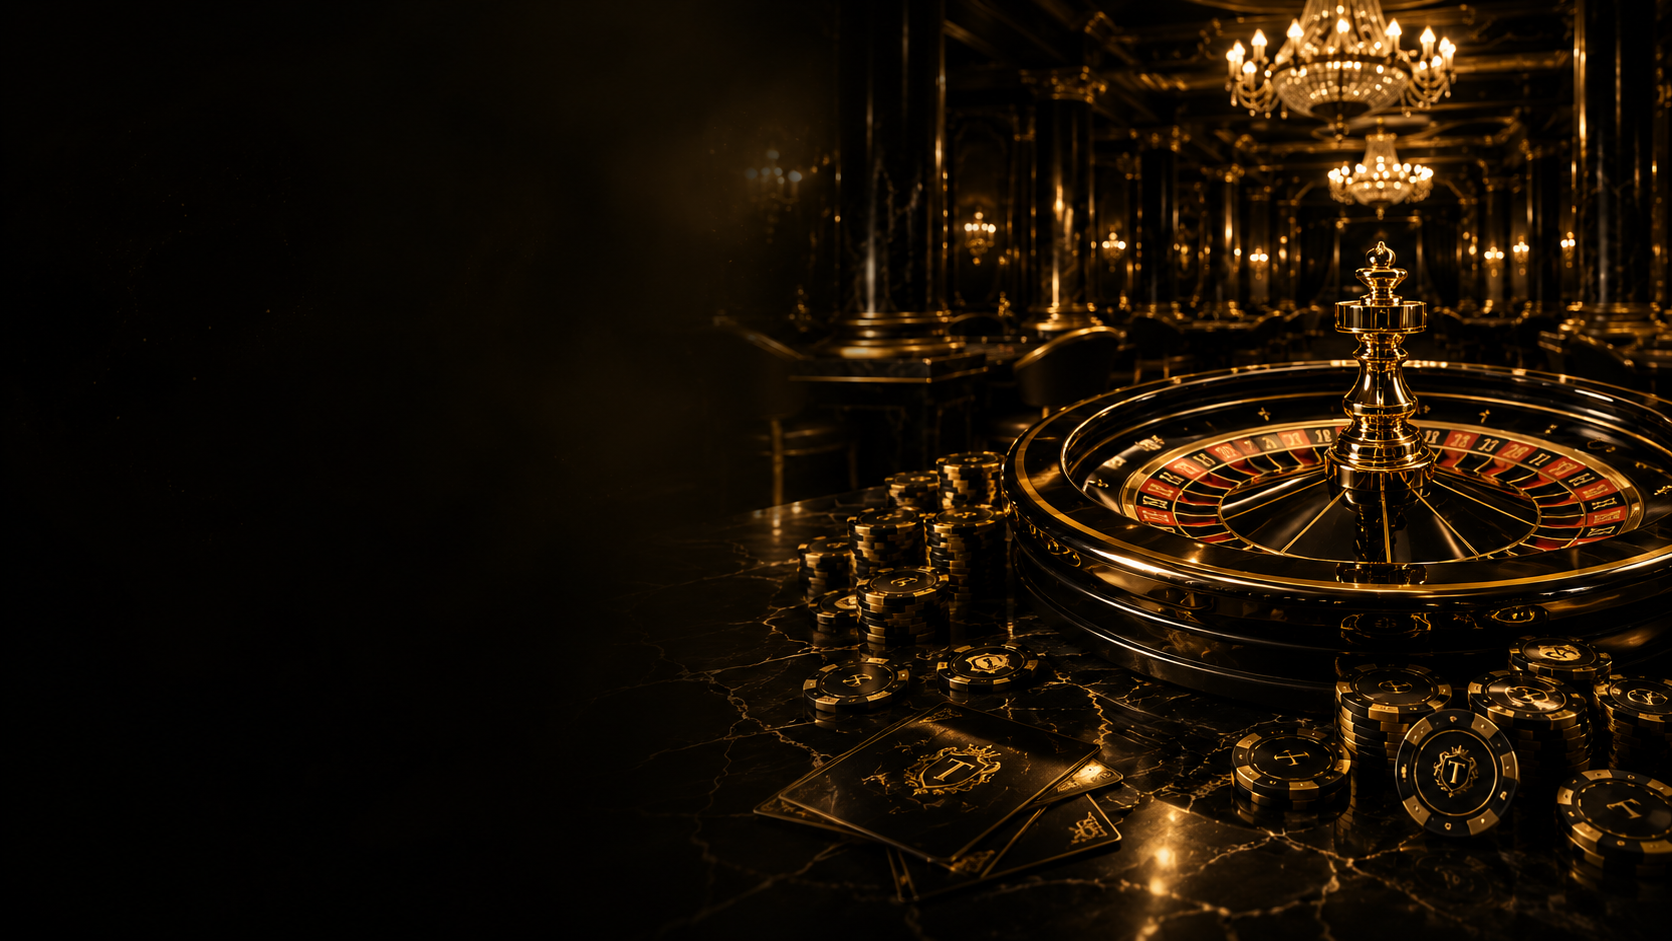
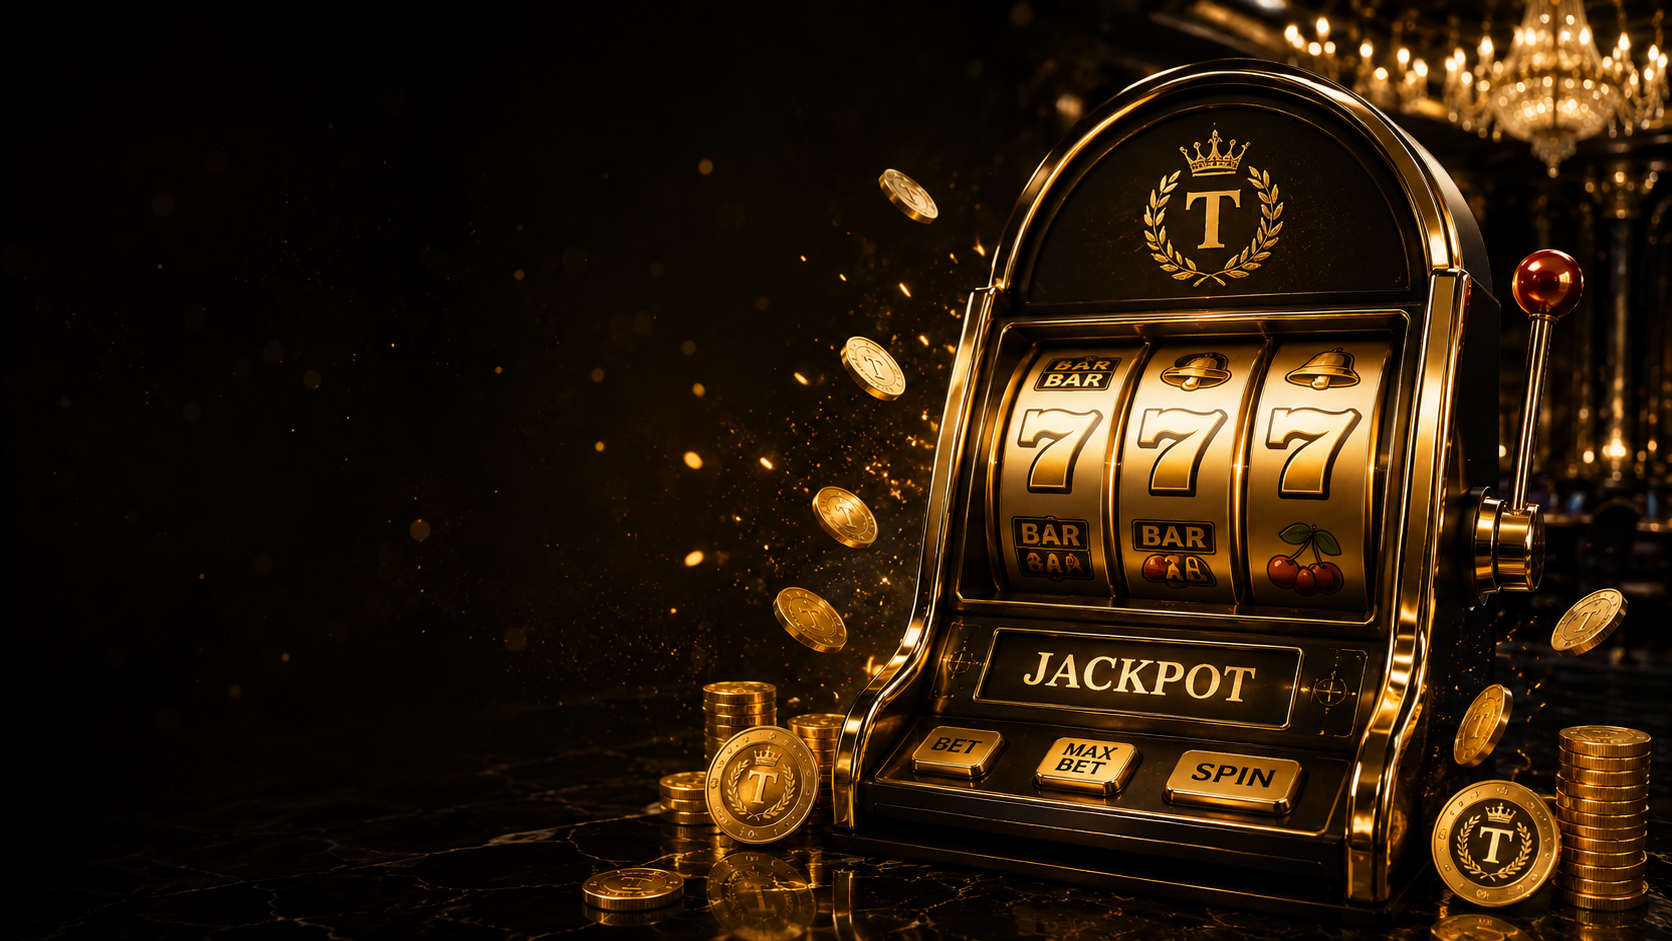
game play page (/casino/play/:slug): breadcrumb, royal frame with controls + iframe slot, Real/Demo toggle, popular row; lobby cards gold frames; Home in nav

diff --git a/src/views/GamePlayView.vue b/src/views/GamePlayView.vue
@@ -1,0 +1,190 @@
+<script setup lang="ts">
+import { computed, ref, watch } from 'vue'
+import { useRoute, useRouter } from 'vue-router'
+import AppIcon from '@/components/ui/AppIcon.vue'
+import FontIcon from '@/components/ui/FontIcon.vue'
+import GoldButton from '@/components/ui/GoldButton.vue'
+import { findGame, lobbyGames, gameSlug } from '@/data/casinoGames'
+
+const route = useRoute()
+const router = useRouter()
+
+const game = computed(() => findGame(String(route.params.slug)) ?? lobbyGames[0])
+const playing = ref(false)
+const mode = ref<'real' | 'demo'>('real')
+const fav = ref(false)
+
+// Switching to another game resets the session state.
+watch(() => route.params.slug, () => {
+  playing.value = false
+  fav.value = false
+})
+
+const popular = computed(() =>
+  lobbyGames.filter((g) => g !== game.value).slice(0, 6),
+)
+
+const controls = [
+  { icon: 'star', label: 'Favorite', act: () => (fav.value = !fav.value) },
+  { icon: 'refresh', label: 'Reload', act: () => (playing.value = false) },
+  { icon: 'vault', label: 'Lobby', act: () => router.push('/casino') },
+  { icon: 'x', label: 'Close', act: () => router.push('/casino') },
+]
+</script>
+
+<template>
+  <main class="pb-4">
+    <div class="container-royal pt-6">
+      <!-- Breadcrumb -->
+      <nav class="flex items-center gap-2 font-sans text-[12px] uppercase tracking-[0.12em]" aria-label="Breadcrumb">
+        <RouterLink to="/" class="text-ink-dim transition-colors hover:text-gold-bright">Home</RouterLink>
+        <span class="text-gold/50">/</span>
+        <RouterLink to="/casino" class="text-ink-dim transition-colors hover:text-gold-bright">Casino</RouterLink>
+        <span class="text-gold/50">/</span>
+        <span class="text-champagne">{{ game.name }}</span>
+      </nav>
+
+      <!-- Game frame -->
+      <div class="card-lux mt-5 overflow-hidden p-0 hover:translate-y-0">
+        <div class="relative aspect-video max-h-[680px] w-full overflow-hidden">
+          <!-- Blurred art backdrop -->
+          <div
+            class="absolute inset-0 scale-110 bg-cover bg-center blur-2xl"
+            :style="{ backgroundImage: `url('${game.image}')` }"
+          />
+          <div class="absolute inset-0" style="background: radial-gradient(70% 70% at 50% 45%, rgba(5,5,5,0.55), rgba(5,5,5,0.92))" />
+
+          <!-- Frame controls -->
+          <div class="absolute right-4 top-4 z-20 flex gap-2">
+            <button
+              v-for="c in controls"
+              :key="c.label"
+              :aria-label="c.label"
+              class="grid h-10 w-10 place-items-center rounded-full border border-border-gold/60 bg-black/60 backdrop-blur transition-all duration-300 hover:border-gold hover:text-gold-bright"
+              :class="c.icon === 'star' && fav ? 'text-gold-bright' : 'text-champagne'"
+              @click="c.act"
+            >
+              <FontIcon v-if="c.icon === 'refresh'" name="refresh" class="text-[15px]" />
+              <AppIcon v-else :name="c.icon" :size="16" />
+            </button>
+          </div>
+
+          <!-- Live provider game -->
+          <iframe
+            v-if="playing && game.src"
+            :src="game.src"
+            class="absolute inset-0 h-full w-full border-0"
+            :title="game.name"
+            allow="fullscreen; autoplay"
+          />
+
+          <!-- Pre-launch / placeholder session -->
+          <div v-else class="absolute inset-0 z-10 flex flex-col items-center justify-center gap-6 px-6 text-center">
+            <template v-if="!playing">
+              <img :src="game.image" :alt="game.name" class="h-28 w-28 rounded-xl border border-border-gold object-cover shadow-gold-soft" />
+              <h1 class="font-display text-3xl font-bold tracking-[0.1em] text-gold-gradient sm:text-4xl">
+                {{ game.name }}
+              </h1>
+              <!-- Royal launch button -->
+              <button
+                class="group relative grid h-20 w-20 place-items-center rounded-full bg-gold-gradient text-[#1a1407] shadow-gold transition-transform duration-300 hover:scale-105 active:scale-95"
+                aria-label="Launch game"
+                @click="playing = true"
+              >
+                <span class="absolute -inset-2 animate-ringRotate rounded-full border border-dashed border-gold/40" />
+                <AppIcon name="play" :size="30" />
+              </button>
+              <p class="font-sans text-[11px] uppercase tracking-[0.3em] text-ink-dim">
+                {{ mode === 'real' ? 'Enter the table' : 'Practice round' }}
+              </p>
+            </template>
+
+            <!-- Launched but no provider URL configured yet -->
+            <template v-else>
+              <div class="relative flex h-20 w-20 items-center justify-center">
+                <svg class="absolute inset-0 h-full w-full animate-ringRotate" style="animation-duration: 2.4s" viewBox="0 0 100 100" fill="none">
+                  <circle cx="50" cy="50" r="45" stroke="rgba(212,175,55,0.18)" stroke-width="2.5" />
+                  <circle cx="50" cy="50" r="45" stroke="#F5D77A" stroke-width="2.5" stroke-linecap="round" stroke-dasharray="70 213" />
+                </svg>
+                <img src="/assets/images/crown-duke.png" alt="" class="h-8 w-auto" />
+              </div>
+              <p class="font-display text-lg font-semibold tracking-[0.16em] text-gold-gradient">
+                Summoning the reels
+              </p>
+              <p class="max-w-sm font-sans text-[12px] leading-relaxed text-ink-dim">
+                The game session is served by the provider once its launch URL is configured — the THRONE frame, controls and balance shell wrap around it.
+              </p>
+            </template>
+          </div>
+        </div>
+
+        <!-- Info bar -->
+        <div class="flex flex-col gap-4 border-t border-white/5 bg-card/80 px-6 py-4 sm:flex-row sm:items-center sm:justify-between">
+          <div>
+            <p class="font-display text-base font-semibold tracking-[0.1em] text-champagne">{{ game.name }}</p>
+            <p class="mt-0.5 flex items-center gap-1.5 font-sans text-[11px] text-ink-dim">
+              <span class="h-1 w-1 rounded-full bg-gold/70" /> {{ game.provider }} · RTP {{ game.rtp }}%
+            </p>
+          </div>
+          <div class="flex items-center gap-1 rounded-full border border-white/10 bg-black/40 p-1">
+            <button
+              v-for="m in (['real', 'demo'] as const)"
+              :key="m"
+              class="rounded-full px-5 py-1.5 font-sans text-[10px] font-semibold uppercase tracking-[0.14em] transition-all duration-300"
+              :class="mode === m ? 'bg-gold-gradient text-[#1a1407] shadow-gold-soft' : 'text-ink-muted hover:text-gold-bright'"
+              @click="mode = m"
+            >
+              {{ m === 'real' ? 'Real Play' : 'Demo' }}
+            </button>
+          </div>
+        </div>
+      </div>
+
+      <!-- Popular casino games -->
+      <div class="mt-12">
+        <div class="mb-6 flex items-center justify-between">
+          <div class="flex items-center gap-3">
+            <span class="h-6 w-1 rounded-full bg-gold-gradient shadow-gold-soft" />
+            <h2 class="font-display text-lg font-semibold tracking-[0.16em] text-gold-gradient">
+              Popular Casino Games
+            </h2>
+          </div>
+          <RouterLink to="/casino">
+            <GoldButton variant="ghost" size="sm">See All <AppIcon name="arrowRight" :size="13" /></GoldButton>
+          </RouterLink>
+        </div>
+
+        <div class="grid grid-cols-2 gap-4 sm:grid-cols-3 xl:grid-cols-6">
+          <RouterLink
+            v-for="g in popular"
+            :key="g.name"
+            :to="`/casino/play/${gameSlug(g)}`"
+            class="group overflow-hidden rounded-xl border border-border-gold/70 bg-card transition-all duration-300 hover:-translate-y-1 hover:border-gold hover:shadow-card-lift"
+          >
+            <div class="relative aspect-square overflow-hidden">
+              <img :src="g.image" :alt="g.name" loading="lazy" decoding="async" class="h-full w-full object-cover transition-transform duration-500 group-hover:scale-110" />
+              <span
+                v-if="g.hot"
+                class="absolute left-2 top-2 flex items-center gap-1 rounded bg-gold-gradient px-2 py-0.5 font-sans text-[9px] font-bold uppercase tracking-[0.14em] text-[#1a1407]"
+              >
+                <AppIcon name="crown" :size="10" /> Hot
+              </span>
+              <span
+                v-else-if="g.isNew"
+                class="absolute left-2 top-2 rounded border border-gold/60 bg-black/60 px-2 py-0.5 font-sans text-[9px] font-bold uppercase tracking-[0.14em] text-gold-bright backdrop-blur"
+              >
+                New
+              </span>
+            </div>
+            <div class="px-3 py-3">
+              <p class="truncate font-sans text-[12px] font-semibold text-ink transition-colors group-hover:text-gold-bright">{{ g.name }}</p>
+              <p class="mt-0.5 flex items-center gap-1.5 font-sans text-[10px] text-ink-dim">
+                <span class="h-1 w-1 rounded-full bg-gold/70" /> {{ g.provider }}
+              </p>
+            </div>
+          </RouterLink>
+        </div>
+      </div>
+    </div>
+  </main>
+</template>

diff --git a/src/data/casinoGames.ts b/src/data/casinoGames.ts
@@ -6,27 +6,37 @@ export interface LobbyGame {
   image: string
   hot?: boolean
   isNew?: boolean
+  rtp?: string
+  /** Provider game-launch URL — when set, the play page embeds it */
+  src?: string
 }
 
 const img = (slug: string) => `/assets/images/games/${slug}.webp`
 
+/** URL slug for the play route, derived from the thumbnail filename. */
+export const gameSlug = (g: LobbyGame) =>
+  g.image.split('/').pop()!.replace('.webp', '')
+
+export const findGame = (slug: string) =>
+  lobbyGames.find((g) => gameSlug(g) === slug)
+
 export const lobbyGames: LobbyGame[] = [
-  { name: 'Gates of Olympus', provider: 'Pragmatic Play', image: img('gates-of-olympus'), hot: true },
-  { name: 'Sugar Rush', provider: 'Pragmatic Play', image: img('sugar-rush') },
-  { name: 'Starlight Princess', provider: 'Pragmatic Play', image: img('starlight-princess') },
-  { name: 'Zeus vs Hades', provider: 'Pragmatic Play', image: img('zeus-vs-hades'), hot: true },
-  { name: 'Bounty Gold', provider: 'Pragmatic Play', image: img('bounty-gold') },
-  { name: 'Release the Kraken', provider: 'Pragmatic Play', image: img('release-the-kraken'), isNew: true },
-  { name: 'Candy Blitz', provider: 'Pragmatic Play', image: img('candy-blitz') },
-  { name: 'Fruit Rainbow', provider: 'Pragmatic Play', image: img('fruit-rainbow') },
-  { name: 'Pyramid Treasure', provider: 'Platin Gaming', image: img('pyramid-treasure') },
-  { name: 'Octobeer Fortunes', provider: 'Platin Gaming', image: img('octobeer'), isNew: true },
-  { name: 'Fishin Reels', provider: 'Pragmatic Play', image: img('fishin-reels') },
-  { name: 'The Wild Gang', provider: 'Pragmatic Play', image: img('the-wild-gang') },
-  { name: 'Great Stick-Up', provider: 'Pragmatic Play', image: img('great-stick-up') },
-  { name: 'Empty the Bank', provider: 'Pragmatic Play', image: img('empty-the-bank') },
-  { name: 'The Ultimate 5', provider: 'Pragmatic Play', image: img('the-ultimate-5'), hot: true },
-  { name: 'Smugglers Cove', provider: 'Pragmatic Play', image: img('smugglers-cove') },
+  { name: 'Gates of Olympus', provider: 'Pragmatic Play', image: img('gates-of-olympus'), rtp: '96.5', hot: true },
+  { name: 'Sugar Rush', provider: 'Pragmatic Play', image: img('sugar-rush'), rtp: '96.5' },
+  { name: 'Starlight Princess', provider: 'Pragmatic Play', image: img('starlight-princess'), rtp: '96.5' },
+  { name: 'Zeus vs Hades', provider: 'Pragmatic Play', image: img('zeus-vs-hades'), rtp: '96.1', hot: true },
+  { name: 'Bounty Gold', provider: 'Pragmatic Play', image: img('bounty-gold'), rtp: '96.4' },
+  { name: 'Release the Kraken', provider: 'Pragmatic Play', image: img('release-the-kraken'), rtp: '96.7', isNew: true },
+  { name: 'Candy Blitz', provider: 'Pragmatic Play', image: img('candy-blitz'), rtp: '96.2' },
+  { name: 'Fruit Rainbow', provider: 'Pragmatic Play', image: img('fruit-rainbow'), rtp: '96.5' },
+  { name: 'Pyramid Treasure', provider: 'Platin Gaming', image: img('pyramid-treasure'), rtp: '95.9' },
+  { name: 'Octobeer Fortunes', provider: 'Platin Gaming', image: img('octobeer'), rtp: '96.0', isNew: true },
+  { name: 'Fishin Reels', provider: 'Pragmatic Play', image: img('fishin-reels'), rtp: '96.3' },
+  { name: 'The Wild Gang', provider: 'Pragmatic Play', image: img('the-wild-gang'), rtp: '96.5' },
+  { name: 'Great Stick-Up', provider: 'Pragmatic Play', image: img('great-stick-up'), rtp: '96.3' },
+  { name: 'Empty the Bank', provider: 'Pragmatic Play', image: img('empty-the-bank'), rtp: '96.5' },
+  { name: 'The Ultimate 5', provider: 'Pragmatic Play', image: img('the-ultimate-5'), rtp: '96.6', hot: true },
+  { name: 'Smugglers Cove', provider: 'Pragmatic Play', image: img('smugglers-cove'), rtp: '96.4' },
 ]
 
 export const lobbyProviders = [...new Set(lobbyGames.map((g) => g.provider))]

diff --git a/src/components/layout/AppHeader.vue b/src/components/layout/AppHeader.vue
@@ -34,18 +34,18 @@ onMounted(() => {
           :key="item.label"
           :to="item.href"
           custom
-          v-slot="{ href, navigate, isActive }"
+          v-slot="{ href, navigate, isActive, isExactActive }"
         >
           <a
             :href="href"
             class="group relative font-sans text-[13px] font-medium tracking-wide transition-colors hover:text-ink"
-            :class="isActive ? 'text-ink' : 'text-ink-muted'"
+            :class="(item.href === '/' ? isExactActive : isActive) ? 'text-ink' : 'text-ink-muted'"
             @click="navigate"
           >
             {{ item.label }}
             <span
               class="absolute -bottom-1.5 left-0 h-px bg-gold transition-all duration-300"
-              :class="isActive ? 'w-full' : 'w-0 group-hover:w-full'"
+              :class="(item.href === '/' ? isExactActive : isActive) ? 'w-full' : 'w-0 group-hover:w-full'"
             />
           </a>
         </RouterLink>
@@ -101,7 +101,8 @@ onMounted(() => {
             :key="item.label"
             :to="item.href"
             class="border-b border-white/5 py-3 font-sans text-sm tracking-wide text-ink-muted transition-colors hover:text-gold-bright"
-            active-class="text-gold-bright"
+            :active-class="item.href === '/' ? '' : 'text-gold-bright'"
+            exact-active-class="text-gold-bright"
             @click="menuOpen = false"
           >
             {{ item.label }}

diff --git a/src/components/page/GamesLobby.vue b/src/components/page/GamesLobby.vue
@@ -1,8 +1,11 @@
 <script setup lang="ts">
 import { computed, ref } from 'vue'
+import { useRouter } from 'vue-router'
 import AppIcon from '@/components/ui/AppIcon.vue'
 import GoldButton from '@/components/ui/GoldButton.vue'
-import { lobbyGames, lobbyProviders } from '@/data/casinoGames'
+import { lobbyGames, lobbyProviders, gameSlug } from '@/data/casinoGames'
+
+const router = useRouter()
 
 /** THRONE casino lobby: searchable, filterable game grid with royal styling. */
 
@@ -90,7 +93,8 @@ function toggleFav(name: string) {
       <article
         v-for="g in shown"
         :key="g.name"
-        class="group cursor-pointer overflow-hidden rounded-xl border border-white/8 bg-card transition-all duration-300 hover:-translate-y-1 hover:border-border-gold hover:shadow-card-lift"
+        class="group cursor-pointer overflow-hidden rounded-xl border border-border-gold/70 bg-card shadow-[inset_0_1px_0_rgba(245,215,122,0.08)] transition-all duration-300 hover:-translate-y-1 hover:border-gold hover:shadow-card-lift"
+        @click="router.push(`/casino/play/${gameSlug(g)}`)"
       >
         <div class="relative aspect-square overflow-hidden">
           <img

diff --git a/src/router/index.ts b/src/router/index.ts
@@ -6,6 +6,11 @@ const router = createRouter({
   routes: [
     { path: '/', name: 'home', component: HomeView },
     { path: '/casino', name: 'casino', component: () => import('@/views/CasinoView.vue') },
+    {
+      path: '/casino/play/:slug',
+      name: 'game-play',
+      component: () => import('@/views/GamePlayView.vue'),
+    },
     { path: '/sports', name: 'sports', component: () => import('@/views/SportsView.vue') },
     {
       path: '/live-casino',

diff --git a/src/data/navigation.ts b/src/data/navigation.ts
@@ -4,6 +4,7 @@ export interface NavItem {
 }
 
 export const primaryNav: NavItem[] = [
+  { label: 'Home', href: '/' },
   { label: 'Casino', href: '/casino' },
   { label: 'Sports', href: '/sports' },
   { label: 'Live Casino', href: '/live-casino' },